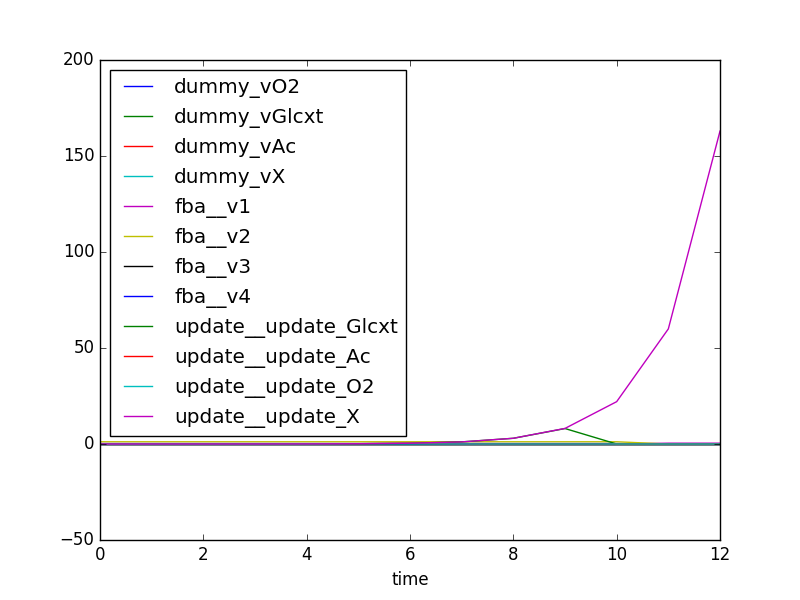
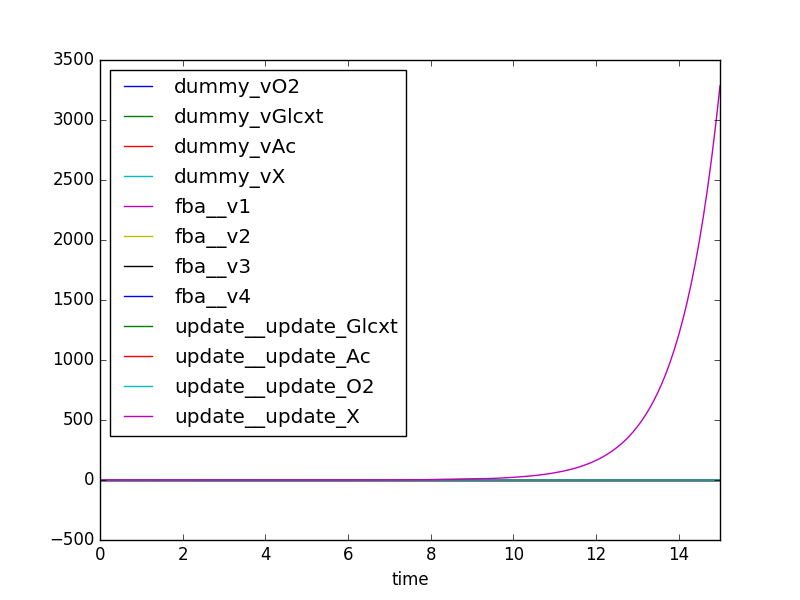
handled negative flux bound error

diff --git a/sbmlutils/dfba/simulator.py b/sbmlutils/dfba/simulator.py
@@ -268,8 +268,7 @@ class Simulator(object):
             fba_rules[reaction.getId()] = parameter.getId()
         return fba_rules
 
-
-    def simulate(self, tstart=0.0, tend=10.0, steps=20):
+    def simulate(self, tstart=0.0, tend=10.0, steps=20, absTol=1E-6, relTol=1E-6):
         """
         Perform model simulation.
 
@@ -278,81 +277,91 @@ class Simulator(object):
         The passing of information between FBA and SSA/ODE is based on the list of replacements.
         """
         # TODO: store directly in numpy arrays for speed improvements
+        # TODO: set tolerances for the ode integration
 
-        logging.debug('###########################')
-        logging.debug('# Start Simulation')
-        logging.debug('###########################')
+        try:
+            logging.debug('###########################')
+            logging.debug('# Start Simulation')
+            logging.debug('###########################')
 
-        points = steps + 1
-        all_time = numpy.linspace(start=tstart, stop=tend, num=points)
-        all_results = []
-        df_results = pd.DataFrame(index=all_time, columns=self.rr_comp.timeCourseSelections)
+            points = steps + 1
+            all_time = numpy.linspace(start=tstart, stop=tend, num=points)
+            all_results = []
+            df_results = pd.DataFrame(index=all_time, columns=self.rr_comp.timeCourseSelections)
 
-        step_size = (tend-tstart)/(points-1.0)
-        result = None
-        time = 0.0
+            step_size = (tend-tstart)/(points-1.0)
+            result = None
+            time = 0.0
 
-        # variable step size integration
-        # if not points:
-        #     self.rr_comp.integrator.setValue('variable_step_size', True)
+            # variable step size integration
+            # if not points:
+            #     self.rr_comp.integrator.setValue('variable_step_size', True)
 
-        kstep = 0
-        while kstep < points:
-            logging.debug("-" * 80)
-            logging.debug("Time: {}".format(time))
+            kstep = 0
+            while kstep < points:
+                logging.debug("-" * 80)
+                logging.debug("Time: {}".format(time))
 
-            # --------------------------------------
-            # FBA
-            # --------------------------------------
-            for fba_model in self.fba_models:
-                # update fba bounds from ode
-                fba_model.update_fba_bounds(self.rr_comp)
-                # optimize fba
-                fba_model.optimize()
-                # set ode fluxes from fba
-                fba_model.set_ode_fluxes(self.rr_comp)
+                # --------------------------------------
+                # FBA
+                # --------------------------------------
+                for fba_model in self.fba_models:
+                    # update fba bounds from ode
+                    fba_model.update_fba_bounds(self.rr_comp)
+                    # optimize fba
+                    fba_model.optimize()
+                    # set ode fluxes from fba
+                    fba_model.set_ode_fluxes(self.rr_comp)
 
-            # --------------------------------------
-            # ODE
-            # --------------------------------------
-            logging.debug('* ODE integration')
-            if points:
-                # constant step size
-                if kstep == 0:
-                    result = self.rr_comp.simulate(start=0, end=0, steps=1)
-                else:
-                    result = self.rr_comp.simulate(start=0, end=step_size, steps=1)
-            # else:
-                # variable step size
-                # result = self.rr_comp.simulate(start=0, steps=1)
+                # --------------------------------------
+                # ODE
+                # --------------------------------------
+                logging.debug('* ODE integration')
+                if points:
+                    # constant step size
+                    if kstep == 0:
+                        result = self.rr_comp.simulate(start=0, end=0, steps=1)
+                    else:
+                        result = self.rr_comp.simulate(start=0, end=step_size, steps=1)
+                # else:
+                    # variable step size
+                    # result = self.rr_comp.simulate(start=0, steps=1)
 
-            # store ode row
-            row = result[1, :]
+                # store ode row
+                row = result[1, :]
 
-            # store fba fluxes
-            logging.debug('* Copy fluxes in ODE solution')
-            for fba_model in self.fba_models:
-                for k, v in fba_model.flat_mapping.iteritems():
-                    flux = fba_model.cobra_model.solution.x_dict[k]
-                    vindex = df_results.columns.get_loc(v)
-                    row[vindex] = flux
-            all_results.append(row)
+                # store fba fluxes
+                logging.debug('* Copy fluxes in ODE solution')
+                for fba_model in self.fba_models:
+                    for k, v in fba_model.flat_mapping.iteritems():
+                        flux = fba_model.cobra_model.solution.x_dict[k]
+                        vindex = df_results.columns.get_loc(v)
+                        row[vindex] = flux
+                all_results.append(row)
 
-            # store and update time
-            kstep += 1
-            time += step_size
+                # store and update time
+                kstep += 1
+                time += step_size
 
-            from pandas import Series
-            logging.debug(Series(row, index=self.rr_comp.timeCourseSelections))
+                from pandas import Series
+                logging.debug(Series(row, index=self.rr_comp.timeCourseSelections))
 
-        # create result matrix
-        df_results = pd.DataFrame(index=all_time, columns=self.rr_comp.timeCourseSelections,
-                                  data=all_results)
-        df_results.time = all_time
+            # create result matrix
+            df_results = pd.DataFrame(index=all_time, columns=self.rr_comp.timeCourseSelections,
+                                      data=all_results)
+            df_results.time = all_time
 
-        logging.debug('###########################')
-        logging.debug('# Stop Simulation')
-        logging.debug('###########################')
+            logging.debug('###########################')
+            logging.debug('# Stop Simulation')
+            logging.debug('###########################')
+
+        except RuntimeError as e:
+            import traceback
+            traceback.print_exc()
+            # return the partial result until the error
+            df_results = pd.DataFrame(columns=self.rr_comp.timeCourseSelections,
+                                      data=all_results)
+            df_results.time = all_time[:len(all_results)]
 
         return df_results
 
@@ -503,7 +512,7 @@ class FBAModel(object):
 
         self.flat_mapping = map
 
-    def update_fba_bounds(self, rr_comp):
+    def update_fba_bounds(self, rr_comp, absTol=1E-8):
         """
         Uses the global parameter replacements to replace the bounds
         of reactions with the current values in the kinetic model.
@@ -516,15 +525,22 @@ class FBAModel(object):
         logging.debug('* FBA set bounds ')
         for pid in self.ub_replacements:
             for rid in self.ub_parameters.get(pid):
-                logging.debug('\t{}: (upper) -> {}'.format(rid, pid))
                 cobra_reaction = self.cobra_model.reactions.get_by_id(rid)
-                cobra_reaction.upper_bound = rr_comp[pid]
+                ub = rr_comp[pid]
+                if abs(ub) <= absTol:
+                    ub = 0.0
+                cobra_reaction.upper_bound = ub
+                logging.debug('\tupper: {} = {} = {}'.format(pid, rid, ub))
 
         for pid in self.lb_replacements:
             for rid in self.lb_parameters.get(pid):
-                logging.debug('\t{}: (lower) -> {}'.format(rid, pid))
                 cobra_reaction = self.cobra_model.reactions.get_by_id(rid)
-                cobra_reaction.lower_bound = rr_comp[pid]
+                lb = rr_comp[id]
+                if abs(lb) <= absTol:
+                    lb = 0.0
+                cobra_reaction.lower_bound = lb
+                logging.debug('\tupper: {} = {} = {}'.format(pid, rid, lb))
+
 
     def optimize(self):
         """ Optimize FBA model.

diff --git a/sbmlutils/dfba/diauxic_growth/simulate.py b/sbmlutils/dfba/diauxic_growth/simulate.py
@@ -83,8 +83,8 @@ def print_species(df):
     fig.savefig(os.path.join(out_dir, "species_growth.png"))
 
 if __name__ == "__main__":
-    tend = 12
-    steps = tend
+    tend = 15
+    steps = 10*tend
     df = simulate_diauxic_growth(tend, steps)
 
 
